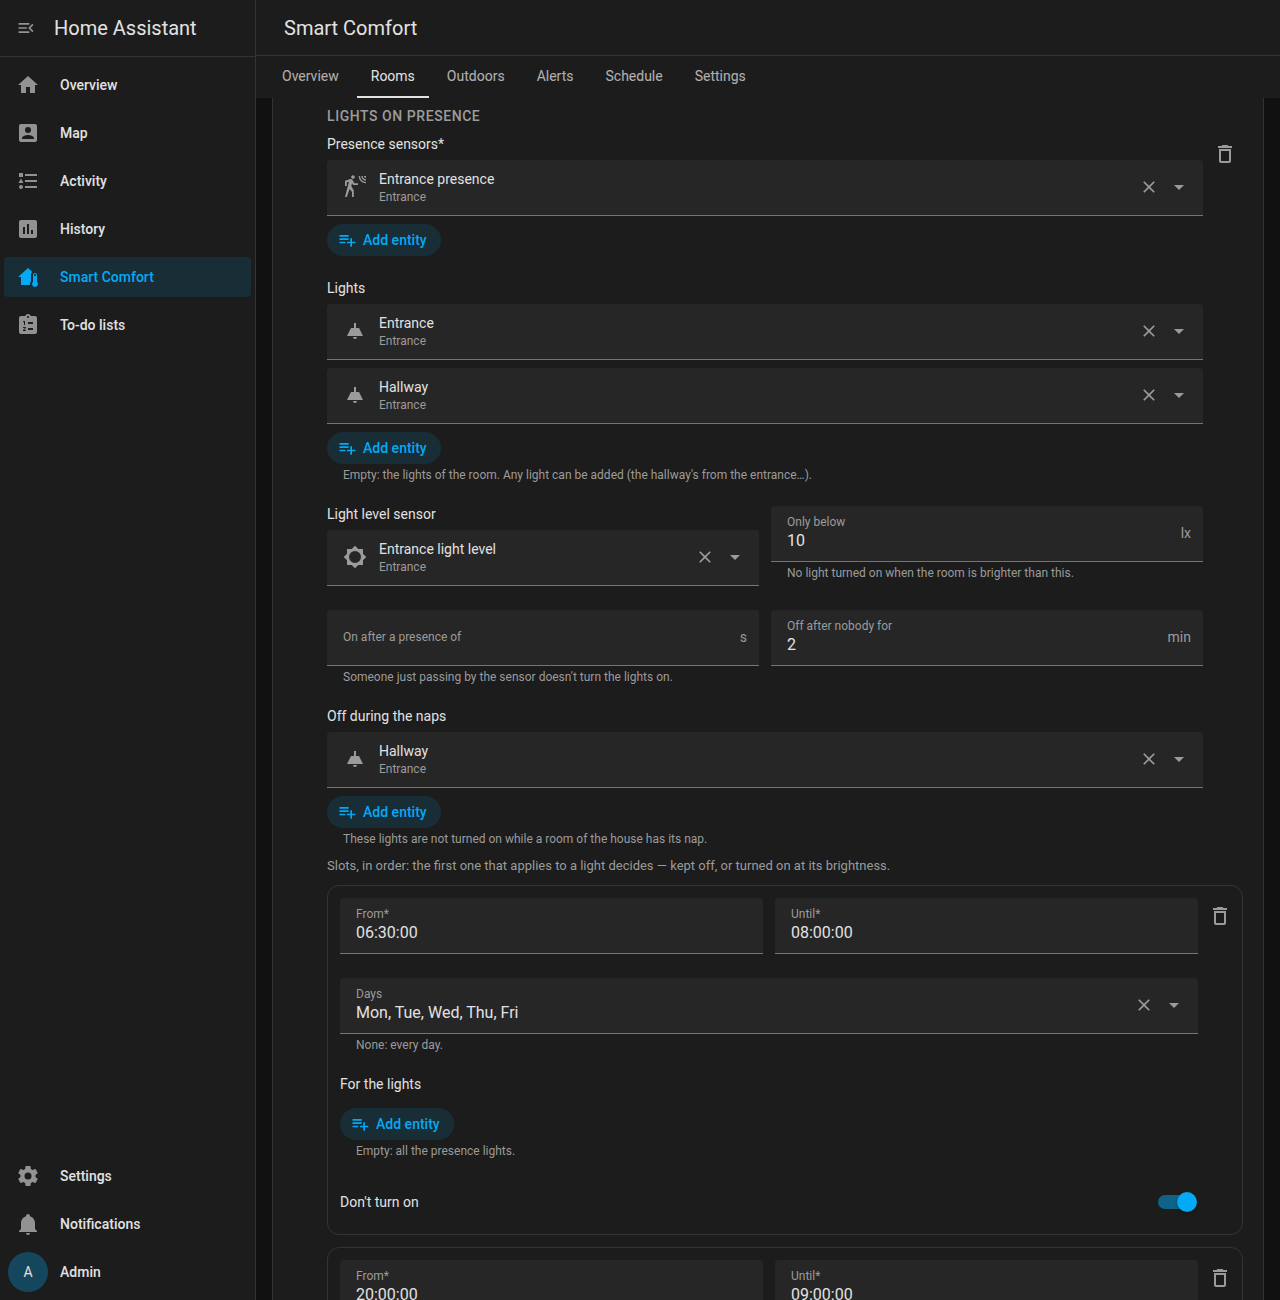
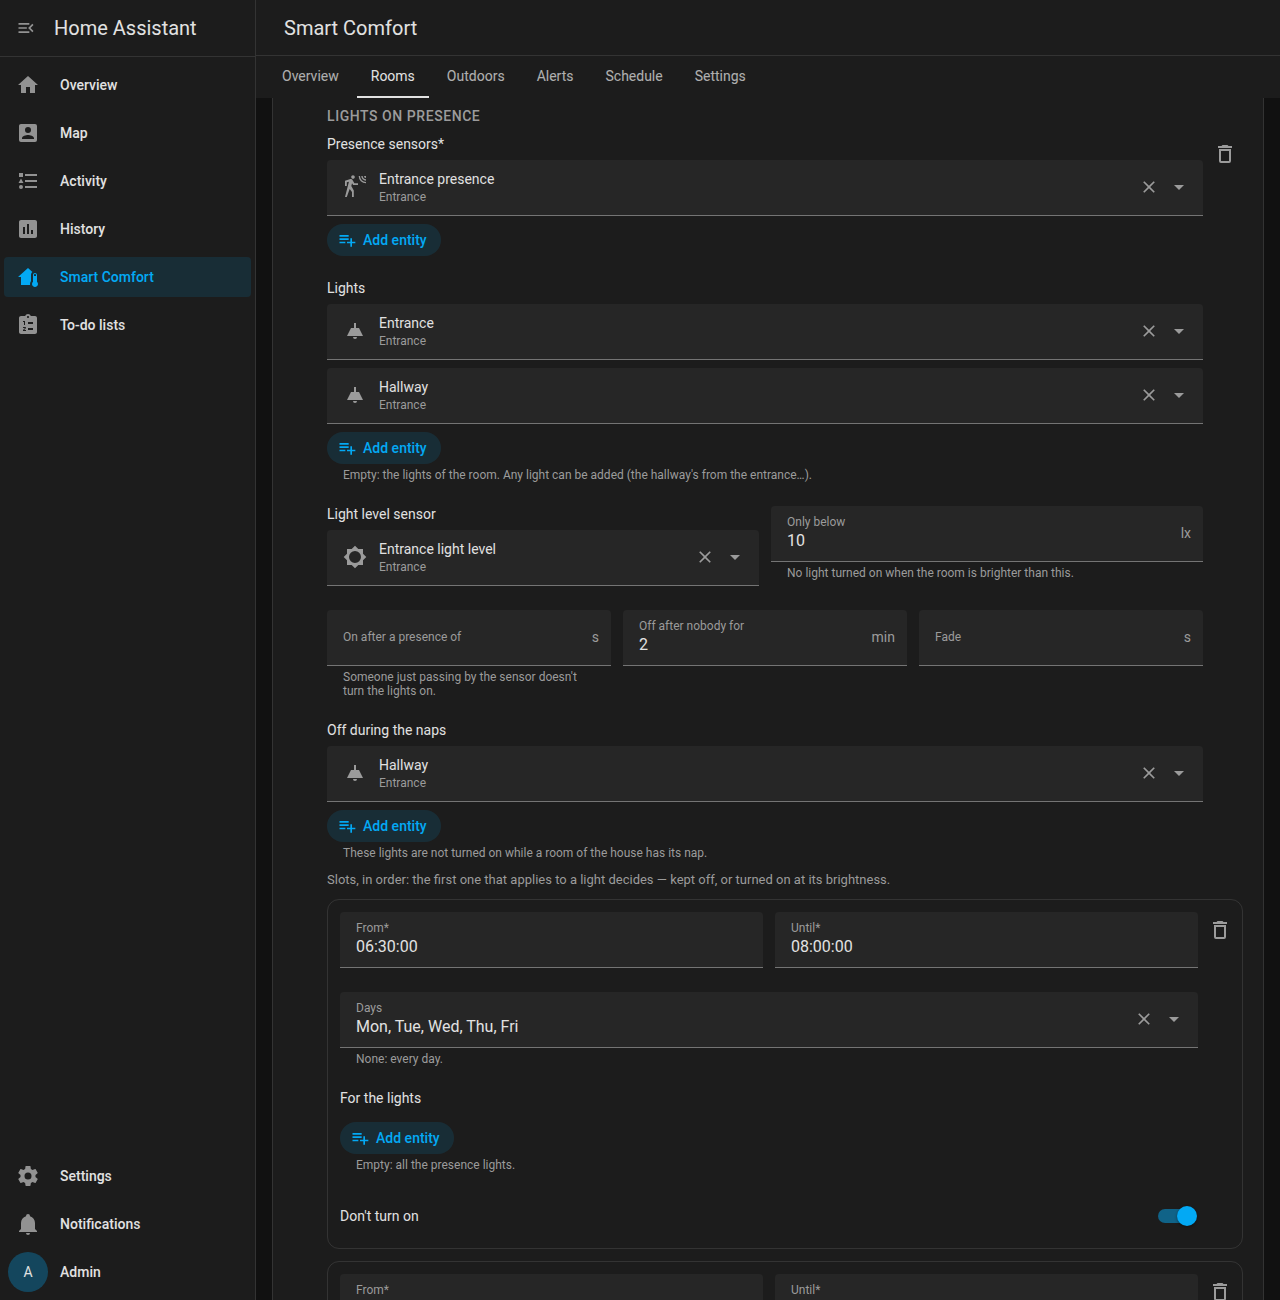
Shared presence lights and presence fade (1.5.0) (#19)
* Shared presence lights and presence fade (1.5.0)

- A presence light of two rooms stays on while someone is in either, and a
  light on because of the other room doesn't block this room's lights.
- presence.transition: fade in seconds on turn on and off.

Claude-Session: https://claude.ai/code/session_01F4sAn1BFxZRAK7j9kpbeFV

* chore: refresh screenshots

---------

diff --git a/custom_components/smart_comfort/frontend/smart-comfort-panel.js b/custom_components/smart_comfort/frontend/smart-comfort-panel.js
@@ -184,6 +184,7 @@ const STRINGS = {
     presence_max_lux_help: "No light turned on when the room is brighter than this.",
     presence_off_after: "Off after nobody for",
     presence_on_after: "On after a presence of",
+    presence_transition: "Fade",
     presence_on_after_help: "Someone just passing by the sensor doesn't turn the lights on.",
     presence_not_during_naps: "Off during the naps",
     presence_not_during_naps_help: "These lights are not turned on while a room of the house has its nap.",
@@ -336,6 +337,7 @@ const STRINGS = {
     presence_max_lux_help: "Aucune lumière allumée quand la pièce est plus claire que ça.",
     presence_off_after: "Extinction après personne pendant",
     presence_on_after: "Allumage après une présence de",
+    presence_transition: "Fondu",
     presence_on_after_help: "Quelqu'un qui passe juste devant le capteur n'allume pas les lumières.",
     presence_not_during_naps: "Éteintes pendant les siestes",
     presence_not_during_naps_help: "Ces lumières ne s'allument pas pendant la sieste d'une pièce de la maison.",
@@ -488,6 +490,7 @@ const STRINGS = {
     presence_max_lux_help: "Kein Licht wird eingeschaltet, wenn der Raum heller ist.",
     presence_off_after: "Aus nach niemand seit",
     presence_on_after: "An nach Anwesenheit von",
+    presence_transition: "Überblendung",
     presence_on_after_help: "Wer nur am Sensor vorbeigeht, schaltet die Lichter nicht ein.",
     presence_not_during_naps: "Aus beim Mittagsschlaf",
     presence_not_during_naps_help: "Diese Lichter gehen nicht an, solange ein Raum des Hauses Mittagsschlaf hält.",
@@ -640,6 +643,7 @@ const STRINGS = {
     presence_max_lux_help: "No se enciende ninguna luz si la estancia está más iluminada.",
     presence_off_after: "Apagado tras nadie durante",
     presence_on_after: "Encendido tras una presencia de",
+    presence_transition: "Fundido",
     presence_on_after_help: "Alguien que solo pasa delante del sensor no enciende las luces.",
     presence_not_during_naps: "Apagadas durante las siestas",
     presence_not_during_naps_help: "Estas luces no se encienden mientras una estancia de la casa está en siesta.",
@@ -2331,7 +2335,7 @@ class SmartComfortPanel extends HTMLElement {
       return;
     }
     const presence = (room.presence = room.presence || { sensors: [] });
-    const fields = ["sensors", "lights", "lux", "max_lux", "on_after", "off_after", "not_during_naps"];
+    const fields = ["sensors", "lights", "lux", "max_lux", "on_after", "off_after", "transition", "not_during_naps"];
     const line = this._el("div", "device-item");
     line.append(
       this._form(
@@ -2345,6 +2349,7 @@ class SmartComfortPanel extends HTMLElement {
           grid([
             { name: "on_after", selector: { number: { mode: "box", step: 1, min: 0, max: 600, unit_of_measurement: "s" } } },
             { name: "off_after", selector: { number: { mode: "box", step: 0.5, min: 0, max: 1440, unit_of_measurement: "min" } } },
+            { name: "transition", selector: { number: { mode: "box", step: 1, min: 0, max: 300, unit_of_measurement: "s" } } },
           ]),
           { name: "not_during_naps", selector: entity("light", { multiple: true }) },
         ],

diff --git a/custom_components/smart_comfort/lighting.py b/custom_components/smart_comfort/lighting.py
@@ -188,6 +188,17 @@ class PresenceController:
         self.suppressed &= rooms
         self.present_since = {k: v for k, v in self.present_since.items() if k in rooms}
 
+    def kept(self, room: Room, occupied: set[str]) -> frozenset[str]:
+        """Presence lights of the room that another room with someone in it also has: theirs too."""
+        mine = set(room.presence_lights())
+        return frozenset(
+            e
+            for r in self.settings.rooms
+            if r.id != room.id and r.id in occupied
+            for e in r.presence_lights()
+            if e in mine
+        )
+
     def turned_off_by_hand(self, room: Room) -> None:
         """A presence light turned off by hand while someone is there: not turned back on before they leave."""
         self.suppressed.add(room.id)
@@ -203,8 +214,13 @@ class PresenceController:
         states: dict[str, LightState],
         lights: LightController,
         adaptive: bool = True,
+        kept: frozenset[str] = frozenset(),
     ) -> list[Command]:
-        """Commands for the presence lights of a room; `adaptive`: give them the brightness of the moment."""
+        """Commands for the presence lights of a room; `adaptive`: give them the brightness of the moment.
+
+        `kept`: lights shared with another room where someone is (the hallway's, from the entrance and the
+        hallway): not turned off, and not counted as turned on by hand.
+        """
         p = room.presence
         if p is None or present is None:
             return []
@@ -215,16 +231,18 @@ class PresenceController:
             if now - seen < timedelta(minutes=p.off_after):
                 return []
             self.suppressed.discard(room.id)
+            off = {"transition": p.transition} if p.transition else {}
             return [
-                Command(e, "light", "turn_off", {}, target="off", device=e)
+                Command(e, "light", "turn_off", dict(off), target="off", device=e)
                 for e in managed
-                if (s := states.get(e)) is not None and s.on
+                if e not in kept and (s := states.get(e)) is not None and s.on
             ]
         self.last_seen[room.id] = now
         since = self.present_since.setdefault(room.id, now)
         if now - since < timedelta(seconds=p.on_after):
             return []  # A presence that doesn't last (someone passing by the sensor): nothing yet.
-        if room.id in self.suppressed or any((s := states.get(e)) is not None and s.on for e in managed):
+        own = [e for e in managed if e not in kept]
+        if room.id in self.suppressed or any((s := states.get(e)) is not None and s.on for e in own):
             return []
         if p.max_lux is not None and lux is not None and lux > p.max_lux:
             return []
@@ -234,7 +252,7 @@ class PresenceController:
         commands = []
         for entity_id in managed:
             state = states.get(entity_id)
-            if state is None or (napping and entity_id in p.not_during_naps):
+            if state is None or state.on or (napping and entity_id in p.not_during_naps):
                 continue
             slot = p.slot(entity_id, local)
             if slot is not None and slot.off:
@@ -243,7 +261,7 @@ class PresenceController:
             dark = moment in (PHASE_NIGHT, PHASE_NAP)
             if device is not None and device.night_only and not dark:
                 continue
-            data: dict[str, Any] = {"transition": 1}
+            data: dict[str, Any] = {"transition": p.transition or 1}
             wanted = None
             if slot is not None and slot.brightness is not None and state.dimmable:
                 data["brightness_pct"] = slot.brightness

diff --git a/tests/test_presence.py b/tests/test_presence.py
@@ -241,3 +241,37 @@ def test_presence_color_and_on_after():
     p = PresenceController(s)
     cmds(p, lights, local(15), T0)
     assert cmds(p, lights, local(15), T0 + timedelta(seconds=6)) == {}
+
+
+def test_shared_light():
+    """The hallway's light, turned on by the entrance and by the hallway: kept on while someone is in either."""
+    s = build_settings(
+        {
+            "rooms": [
+                {
+                    "name": "Entrée",
+                    "presence": {
+                        "sensors": ["binary_sensor.entree"],
+                        "lights": ["light.entree", "light.couloir"],
+                        "off_after": 2,
+                        "transition": 10,
+                    },
+                },
+                {"name": "Couloir", "presence": {"sensors": ["binary_sensor.couloir"], "lights": ["light.couloir"]}},
+            ]
+        }
+    )
+    entree = s.rooms[0]
+    p, lights = PresenceController(s), LightController(s)
+    on = {"light.entree": LightState(on=True), "light.couloir": LightState(on=True)}
+    kept = p.kept(entree, {"couloir"})
+    assert kept == {"light.couloir"}
+    assert p.kept(entree, set()) == frozenset()
+    # Nobody left in the entrance, someone in the hallway: the entrance light only, with its transition.
+    p.evaluate(T0, local(10), 30, entree, False, None, on, lights, kept=kept)
+    cmds = p.evaluate(T0 + timedelta(minutes=2), local(10), 30, entree, False, None, on, lights, kept=kept)
+    assert [(c.entity_id, c.service, c.data) for c in cmds] == [("light.entree", "turn_off", {"transition": 10})]
+    # The hallway light on (someone there): coming into the entrance still turns its light on.
+    lit = {"light.entree": LightState(on=False), "light.couloir": LightState(on=True)}
+    cmds = PresenceController(s).evaluate(T0, local(10), 30, entree, True, None, lit, lights, False, kept)
+    assert [(c.entity_id, c.data) for c in cmds] == [("light.entree", {"transition": 10})]

diff --git a/custom_components/smart_comfort/manager.py b/custom_components/smart_comfort/manager.py
@@ -555,6 +555,7 @@ class SmartComfort:
             elevation = self.sun_elevation()
             if reset := self.controller.reset_due(dt_util.as_local(now)):
                 _LOGGER.debug("Back to the normal state: %s", ", ".join(reset))
+            occupied = {r.id for r in self.settings.rooms if r.presence and self.room_present(r)}
             for room in self.settings.rooms:
                 if lighting and room.lights:
                     commands += self.lights.evaluate(
@@ -572,6 +573,7 @@ class SmartComfort:
                         self.light_states(room),
                         self.lights,
                         adaptive=lighting,
+                        kept=self.presence.kept(room, occupied),
                     )
                 reading, ctx = self.reading(room, now)
                 states = self.device_states(room)

diff --git a/custom_components/smart_comfort/config.py b/custom_components/smart_comfort/config.py
@@ -328,6 +328,7 @@ class Presence:
     max_lux: float | None = None
     off_after: float = DEFAULT_OFF_AFTER  # Minutes.
     on_after: float = 0  # Seconds a presence must last before the lights turn on.
+    transition: float | None = None  # Seconds of the turn on and off (None: at once).
     not_during_naps: tuple[str, ...] = ()
     slots: tuple[PresenceSlot, ...] = ()
 
@@ -356,6 +357,7 @@ def _presence(raw: dict[str, Any] | None) -> Presence | None:
         max_lux=_float(raw.get(CONF_MAX_LUX)),
         off_after=float(raw.get(CONF_OFF_AFTER, DEFAULT_OFF_AFTER)),
         on_after=float(raw.get(CONF_ON_AFTER) or 0),
+        transition=_float(raw.get(CONF_TRANSITION)),
         not_during_naps=_ids(raw.get(CONF_NOT_DURING_NAPS)),
         slots=tuple(
             PresenceSlot(

diff --git a/custom_components/smart_comfort/schema.py b/custom_components/smart_comfort/schema.py
@@ -171,6 +171,7 @@ PRESENCE = vol.Schema(
         vol.Optional(k.CONF_MAX_LUX): vol.Any(None, NUMBER),
         vol.Optional(k.CONF_OFF_AFTER): vol.All(NUMBER, vol.Range(min=0, max=k.MAX_MINUTES)),
         vol.Optional(k.CONF_ON_AFTER): vol.All(NUMBER, vol.Range(min=0, max=600)),
+        vol.Optional(k.CONF_TRANSITION): vol.Any(None, vol.All(NUMBER, vol.Range(min=0, max=300))),
         vol.Optional(k.CONF_NOT_DURING_NAPS): cv.entity_ids,
         vol.Optional(k.CONF_SLOTS): vol.All(cv.ensure_list, [PRESENCE_SLOT]),
     }

diff --git a/README.md b/README.md
@@ -361,10 +361,11 @@ Set per room under `rooms[].presence:` (in the panel: room → Lighting → Ligh
 | `lux` / `max_lux` | none | A light level sensor, and the level above which no light is turned on |
 | `on_after` | 0 s | Seconds a presence must last before the lights are turned on |
 | `off_after` | 2 min | Minutes with nobody before the lights are turned off (decimals allowed) |
+| `transition` | none | Seconds of the fade when the lights are turned on and off |
 | `not_during_naps` | none | Lights not turned on while a room of the house has its nap (`rooms[].naps`) |
 | `slots` | none | `start`, `end`, optional `days` and `lights` (all when none), then `off: true` (not turned on) or `brightness` (in %) and `color` (RGB, for the color lights). The first slot that applies to a light decides |
 
-A light is turned on only when none of the presence lights is already on, at the brightness of the moment (adaptive lighting) unless a slot sets one; a night light only at night and during the naps. Every presence light that is on is turned off once nobody is left. A presence light turned off by hand while someone is there is not turned back on until the room is empty.
+A light is turned on only when none of the presence lights is already on, at the brightness of the moment (adaptive lighting) unless a slot sets one; a night light only at night and during the naps. Every presence light that is on is turned off once nobody is left. A presence light turned off by hand while someone is there is not turned back on until the room is empty. A light that is a presence light of two rooms (the hallway's, from the entrance and the hallway) stays on while someone is in either of them, and a light on because of the other room doesn't stop this room from turning its own on.
 
 ```yaml
     - name: Entrance

diff --git a/CHANGELOG.md b/CHANGELOG.md
@@ -1,5 +1,13 @@
 # Changelog
 
+## 1.5.0
+
+### What's new
+- Lights on presence: **`transition`**, the seconds of the fade when the lights are turned on and off (10 s, like a presence automation).
+
+### Fixes
+- A light that is a presence light of two rooms (the hallway's, from the entrance and the hallway) is no longer turned off by one room while someone is in the other, and a light on because of the other room no longer stops a room from turning its own lights on.
+
 ## 1.4.0
 
 ### What's new
